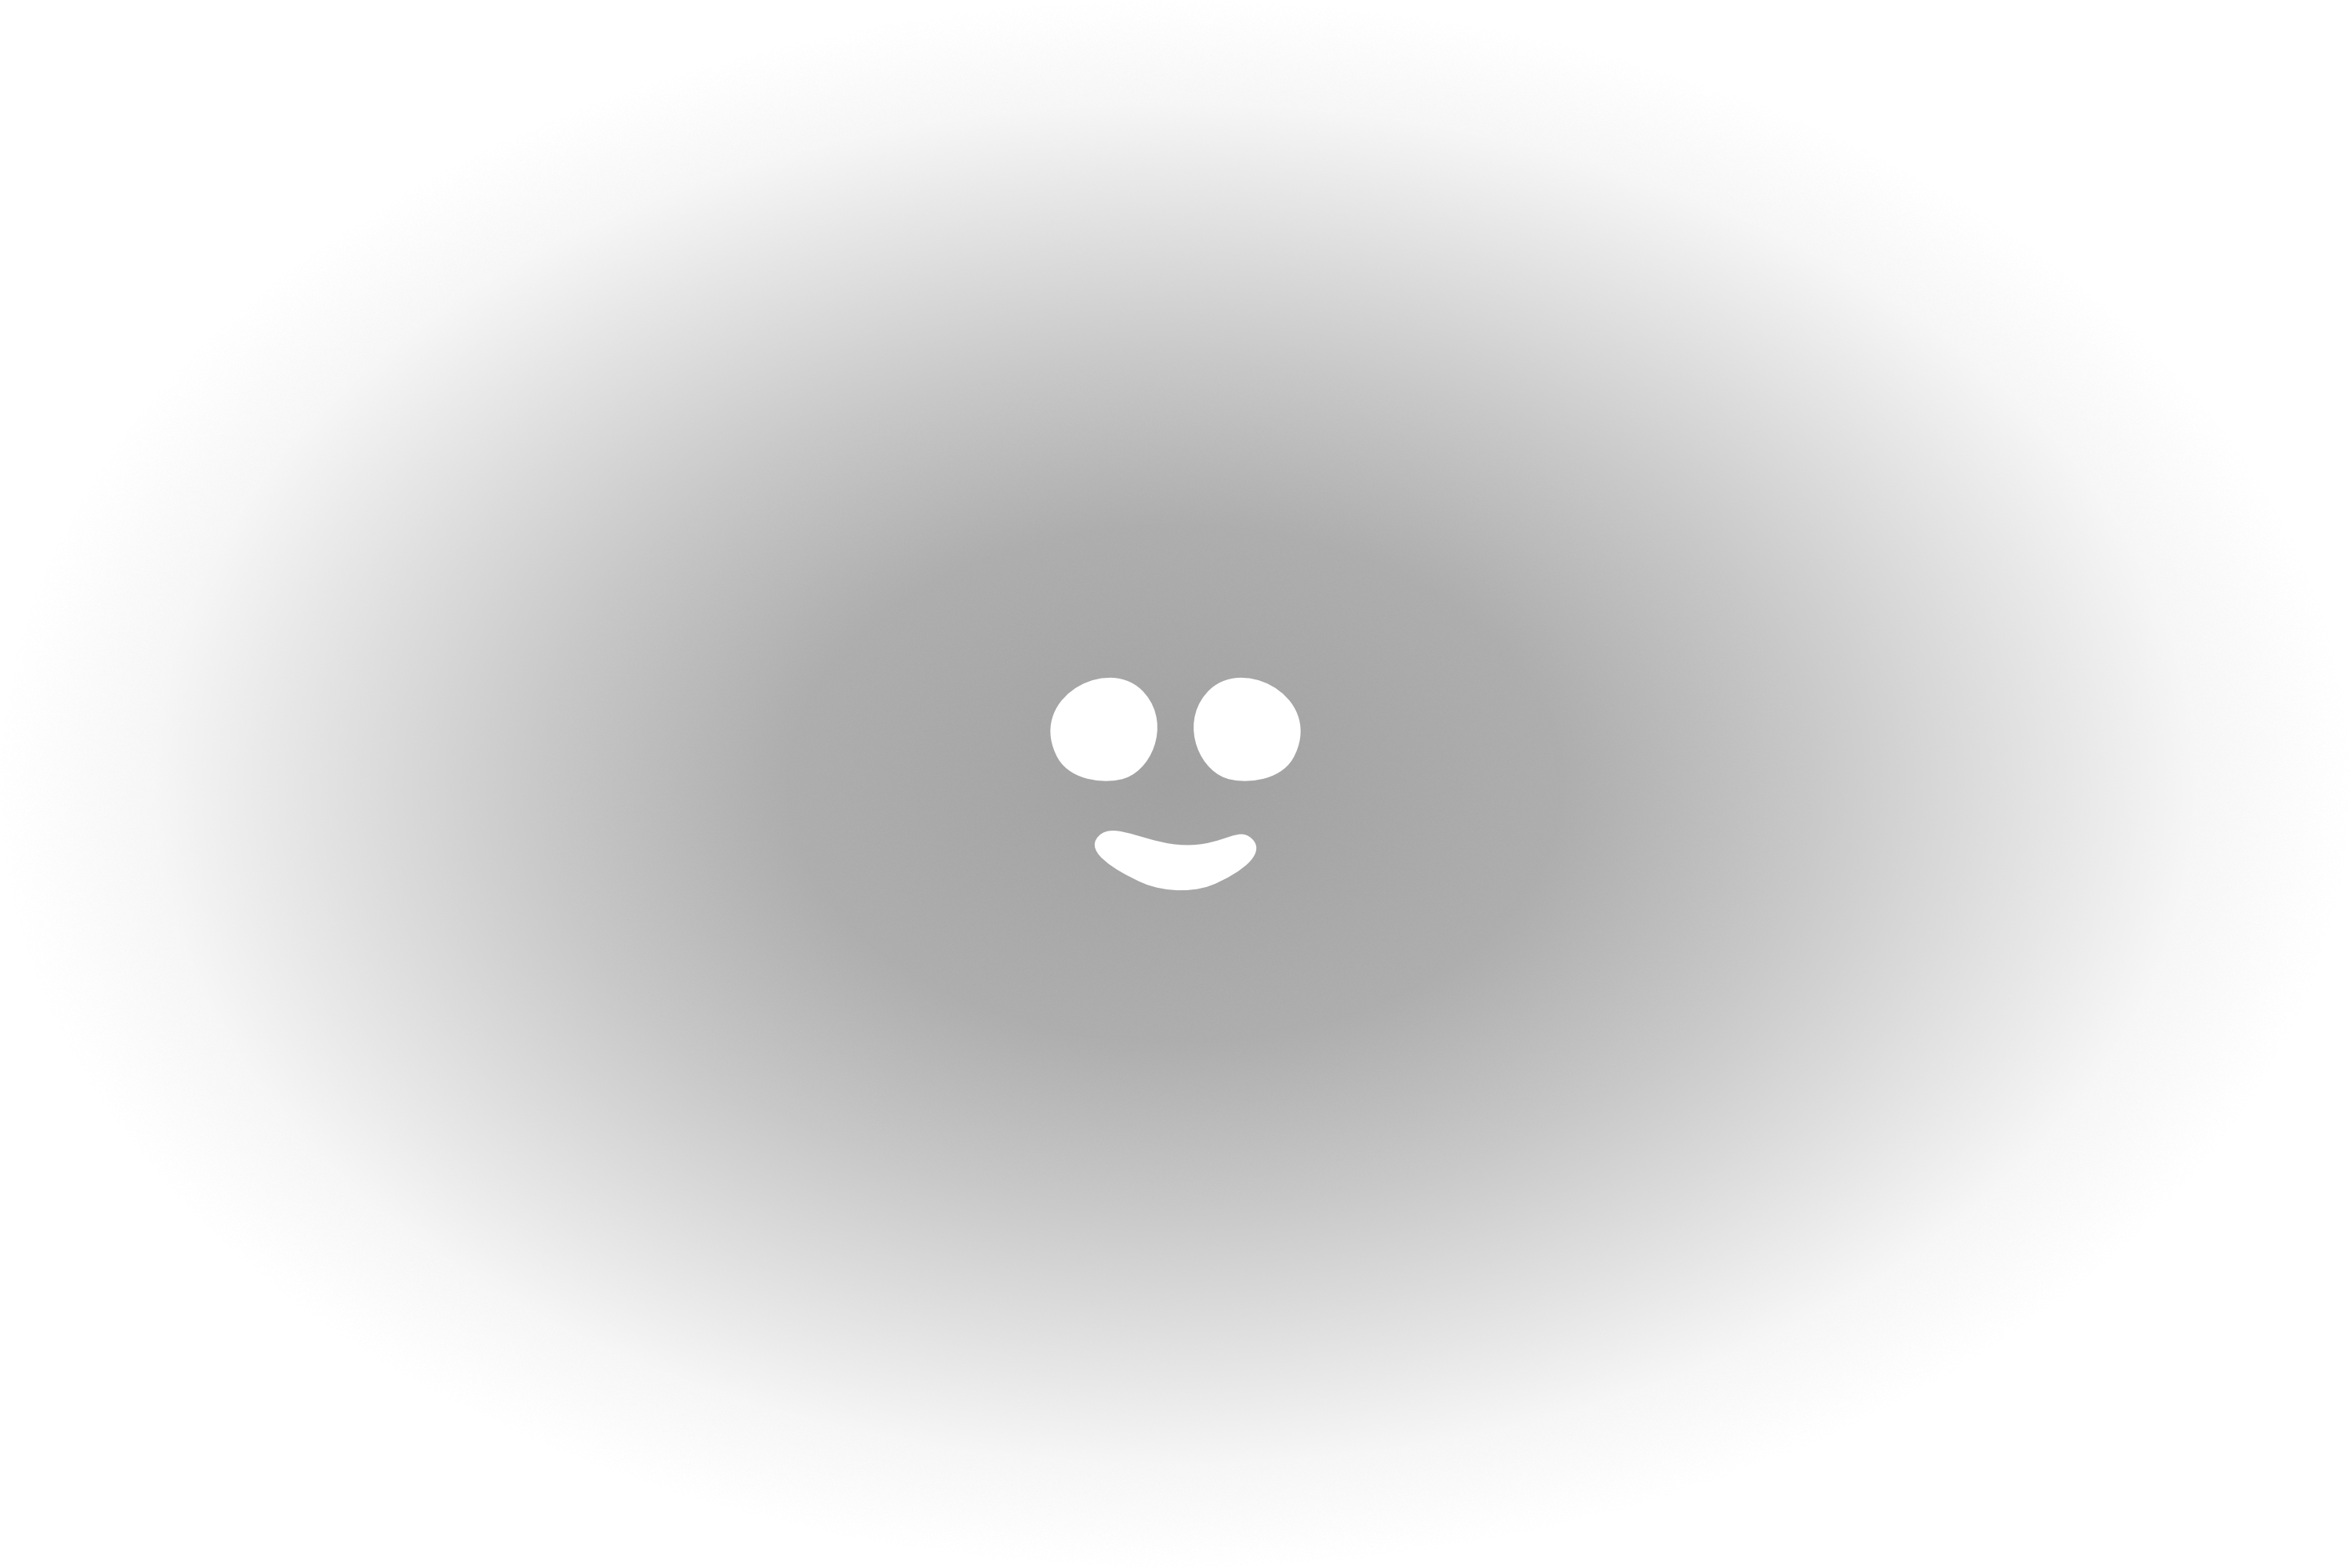
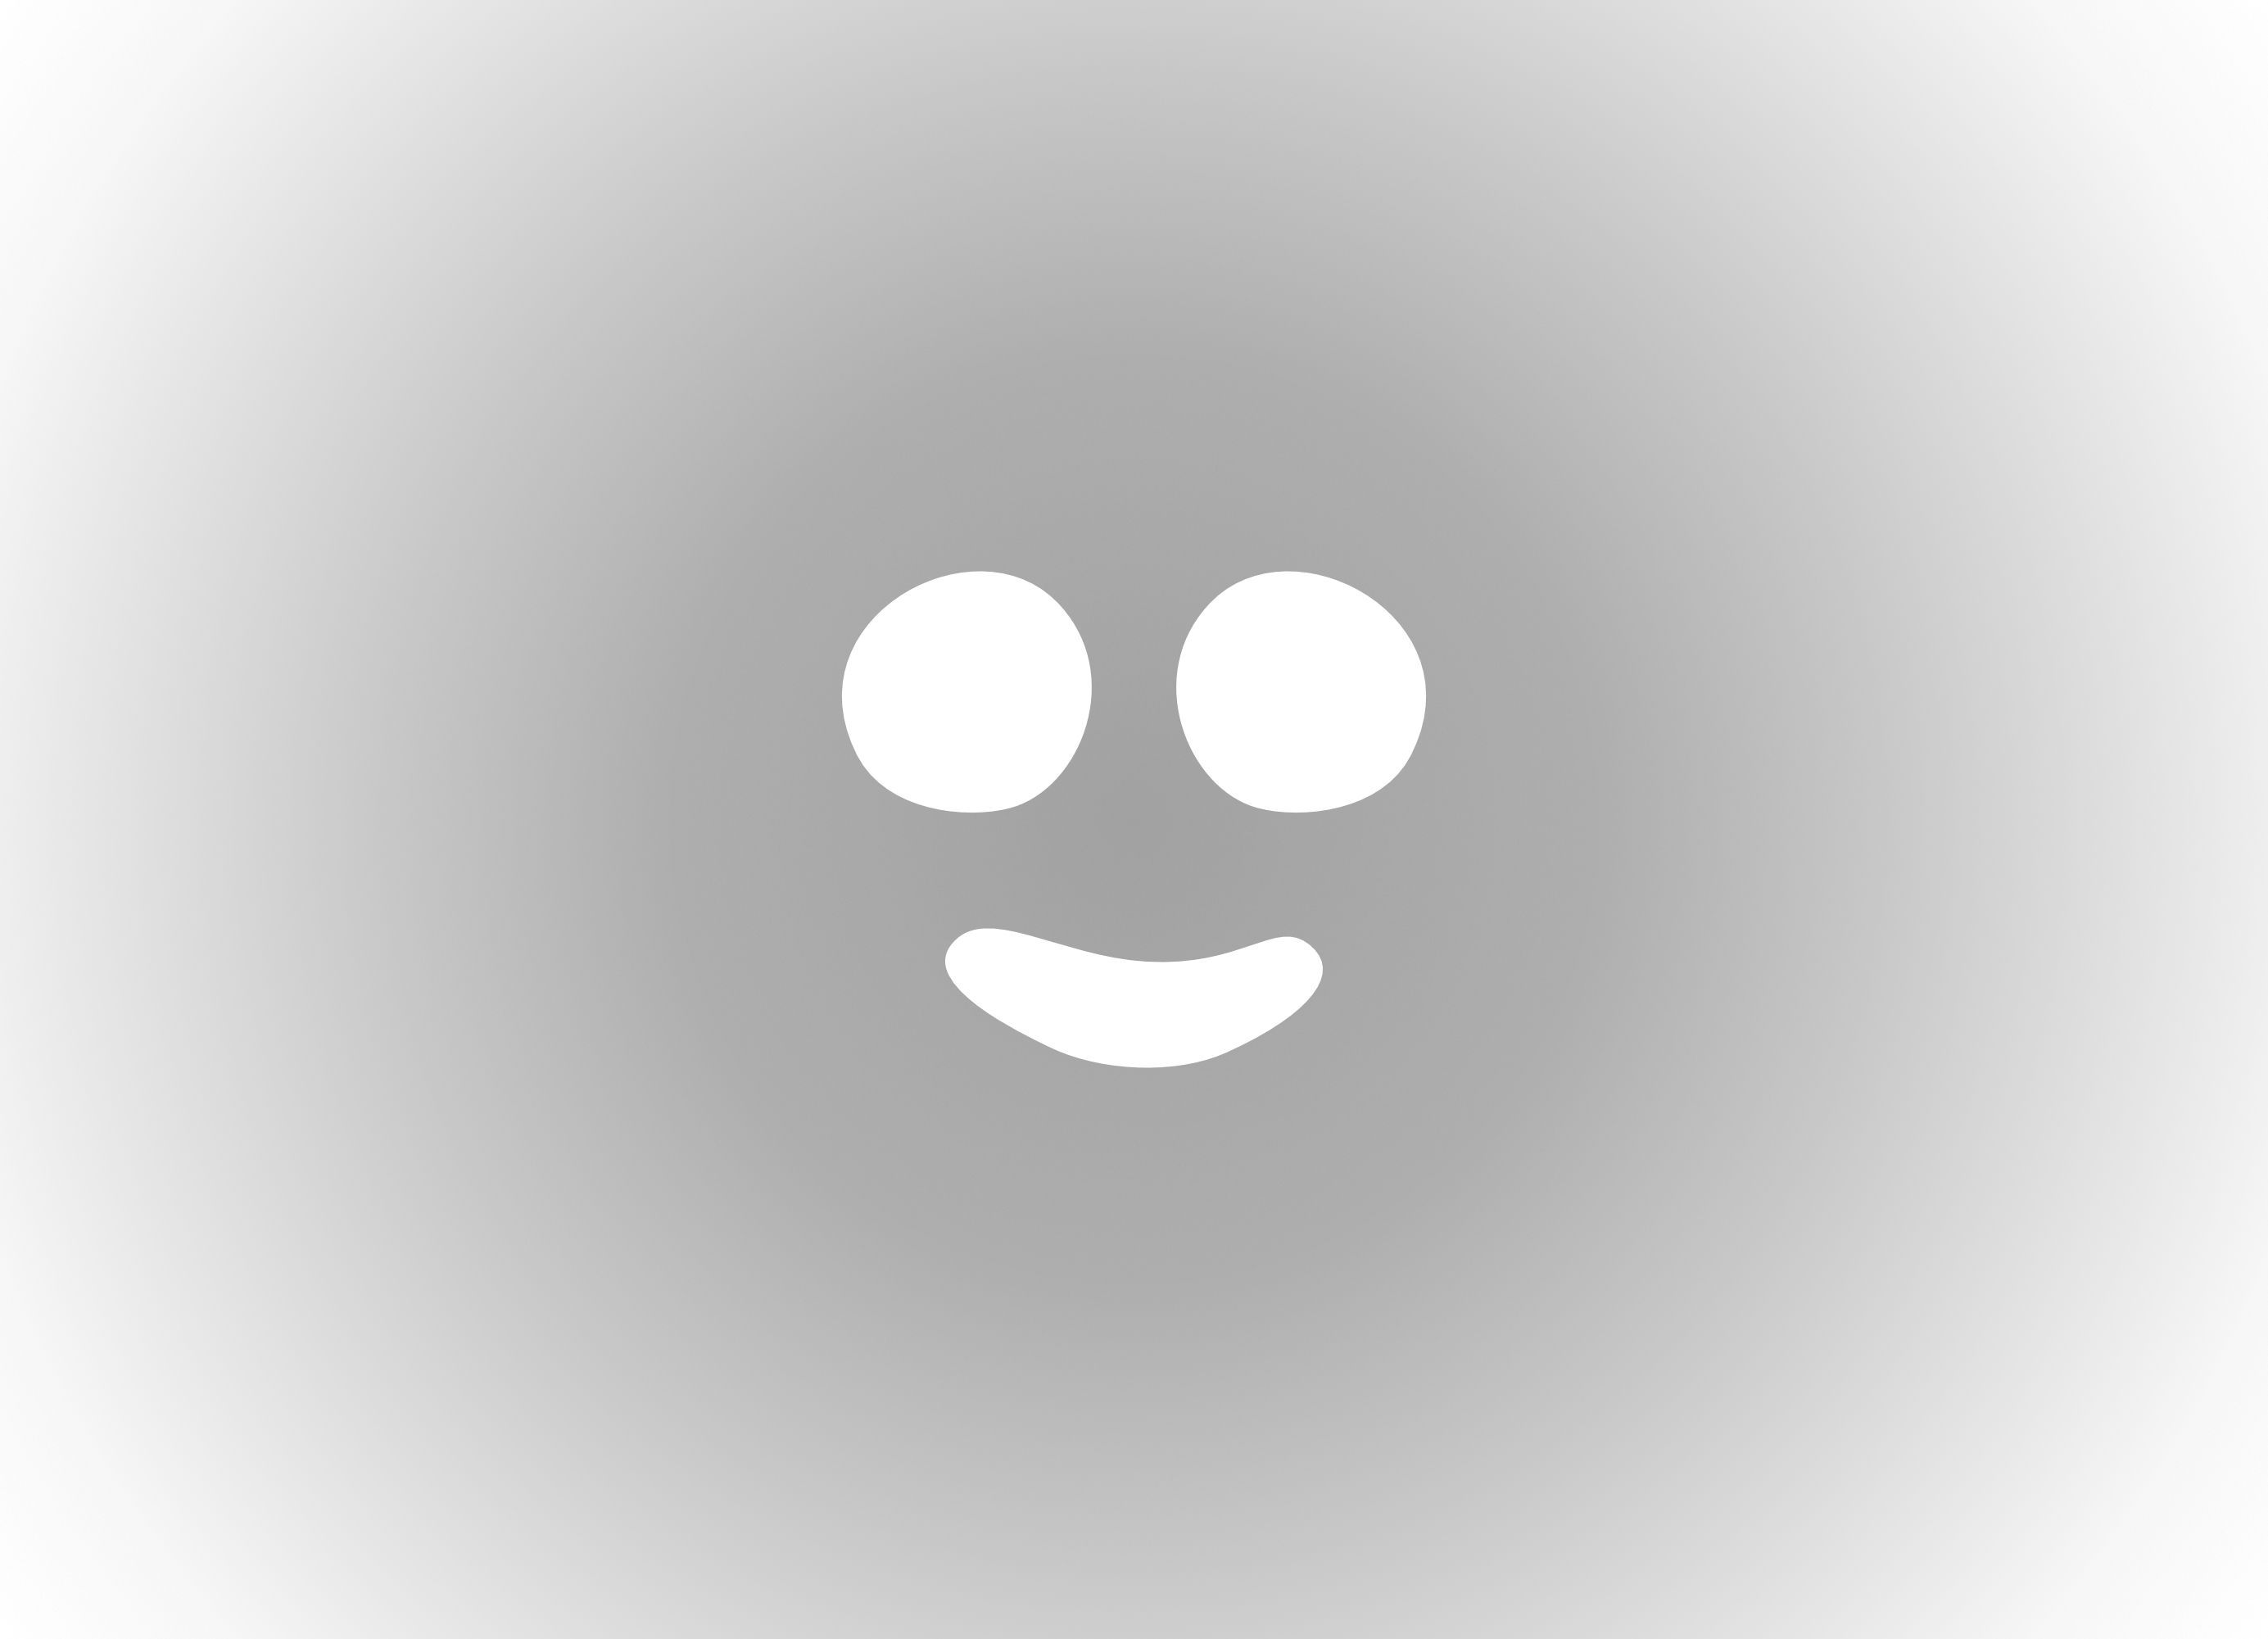
amorphous blob test

diff --git a/src/data/projekte.js b/src/data/projekte.js
@@ -23,12 +23,12 @@ export const projekte = [
     {
         id: 'bachelor',
         cover: bachelorFiles['../projects/bachelor/cover.jpg']?.default,
-        name: 'bachelor',
-        description: 'bachelorprojekt zu desktop-companions',
+        name: 'amorphous blob',
+        description: 'eine Desktop-Präsenz als Selbstreflexion',
         context: {
             lines: [
                 '2026 @ HSLU, Rotkreuz',
-                'Bachelorarbeit & Praxisprojekt'
+                'Bachelorarbeit'
             ],
             url: 'https://www.hslu.ch/it',
             icon: 'graduation-cap',
@@ -44,98 +44,38 @@ export const projekte = [
         sections: [
             {
                 type: 'quoted',
-                text: `Das Bachelorprojekt verbindet eine abgeschlossene schriftliche Thesis mit einem praktischen Bachelorprojekt. Die Thesis legt die theoretische Grundlage zu virtuellen Companions, Projektion und ruhiger Interaktion, während das Projekt diese Erkenntnisse in einen ruhigen Desktop-Prototyp für den digitalen Alltag übersetzt.`
+                text: `Digitale Technologien begleiten unseren Alltag oft als Werkzeuge zur Produktivität, Optimierung oder Unterhaltung. Mit Amorphous Blob untersuche ich, wie eine digitale Präsenz stattdessen emotionale Reflexion und eine persönlichere Beziehung unterstützen kann. Mich interessiert, wie Projektion und Interaktion dazu führen können, dass Menschen durch den Blob einen neuen Zugang zu ihren eigenen Gedanken und Gefühlen entwickeln. Das Medium einer interaktiven digitalen Desktop-Präsenz ermöglicht dabei eine langfristige, persönliche Beziehung statt einer einmaligen Erfahrung.`
             },
             {
-                type: 'heading',
-                text: 'Abgeschlossene schriftliche Thesis'
+                type: 'buttons',
+                buttons: [
+                    {
+                        text: 'Windows App herunterladen',
+                        action: bachelorFiles['../projects/bachelor/Amorphous Blob Setup.exe'].default,
+                        icon: 'fa-brands fa-windows',
+                        color: 'secondary'
+                    },
+                    {
+                        text: 'MacOS App herunterladen',
+                        url: bachelorFiles['../projects/bachelor/Amorphous Blob.dmg'].default,
+                        icon: 'fa-brands fa-apple',
+                        color: 'secondary'
+                    }
+                ]
             },
-            {
-                type: 'iconed',
-                text: 'Forschungsfokus',
-                icon: 'book'
-            },
-            {
-                type: 'bullet',
-                text: 'Warum Companions sozial wirken und nicht nur funktional'
-            },
-            {
-                type: 'bullet',
-                text: 'Kompakter Analyse-Rahmen aus CASA, Mind Perception, parasozialer Interaktion, Ambiguität und Calm Technology'
-            },
-            {
-                type: 'iconed',
-                text: 'Zentrale Erkenntnis',
-                icon: 'lightbulb'
-            },
-            {
-                type: 'bullet',
-                text: 'Soziale Gegenüberhaftigkeit entsteht vor allem durch periphere Präsenz, Zweckfreiheit und Offenheit'
-            },
-            {
-                type: 'iconed',
-                text: 'Beitrag',
-                icon: 'pen-nib'
-            },
-            {
-                type: 'bullet',
-                text: 'Theoretische Grundlage für weitere Forschung und gestalterische Experimente'
-            },
-            {
-                type: 'heading',
-                text: 'Projektplan'
-            },
-            {
-                type: 'subheading',
-                text: 'Konzept',
-            },
-            {
-                type: 'bullet',
-                text: 'Blob gestaltet durch kurze Selbstreflexion im Onboarding'
-            },
-            {
-                type: 'bullet',
-                text: 'Symbolisches Gegenüber, dauerhaft präsent aber nicht aufdringlich'
-            },
-            {
-                type: 'subheading',
-                text: 'Interaktion im Alltag',
-            },
-            {
-                type: 'bullet',
-                text: 'Dezente Präsenz am unteren Bildschirmrand mit Reaktionen auf Anwesenheit und Interaktion'
-            },
-            {
-                type: 'bullet',
-                text: 'Mikrointeraktionen: antippen, streicheln, aufheben, loslassen'
-            },
-            {
-                type: 'bullet',
-                text: 'Reflexionsmomente nur auf Abruf, zum Beispiel als Mini-Journal'
-            },
-            {
-                type: 'subheading',
-                text: 'Implementierung',
-            },
-            {
-                type: 'bullet',
-                text: 'Lokaler Offline-Desktop-Prototyp mit Electron und Vue, basierend auf der abgeschlossenen Thesis'
-            },
-            {
-                type: 'bullet',
-                text: 'Iterativer Designprozess mit regelmässigen User-Tests und Feedback-Sessions'
-            },
-            {
-                type: 'heading',
-                text: 'Pitch-Präsentation'
-            },
-            {
-                type: 'presentation',
-                src: bachelorFiles['../projects/bachelor/PITCH.pdf'].default,
-            }
         ],
         links: [],
         downloads: [
+            {
+                text: 'Windows App',
+                action: bachelorFiles['../projects/bachelor/Amorphous Blob Setup.exe'].default,
+                icon: 'fa-brands fa-windows'
+            },
+            {
+                text: 'MacOS App',
+                url: bachelorFiles['../projects/bachelor/Amorphous Blob.dmg'].default,
+                icon: 'fa-brands fa-apple'
+            },
             {
                 text: 'Pitch-Präsentation.ppsx',
                 url: bachelorFiles['../projects/bachelor/PITCH.ppsx'].default,

diff --git a/src/data/projects.js b/src/data/projects.js
@@ -23,8 +23,8 @@ export const projects = [
     {
         id: 'bachelor',
         cover: bachelorFiles['../projects/bachelor/cover.jpg']?.default,
-        name: 'bachelor',
-        description: 'bachelor project on desktop companions',
+        name: 'amorphous blob',
+        description: 'a desktop presence as self-reflection',
         context: {
             lines: [
                 '2026 @ HSLU, Rotkreuz',
@@ -44,98 +44,38 @@ export const projects = [
         sections: [
             {
                 type: 'quoted',
-                text: `The bachelor project combines a completed written thesis with a practical bachelor project. The thesis builds the theoretical foundation on virtual companions, projection, and calm interaction, while the project translates these insights into a calm desktop prototype that can be experienced in everyday digital life.`
+                text: `Digital technologies often accompany our daily lives as tools for productivity, optimization, or entertainment. With Amorphous Blob, I explore how a digital presence can instead support emotional reflection and foster a more personal relationship. I am interested in how projection and interaction can enable people to gain new access to their own thoughts and feelings through the Blob. The medium of an interactive digital desktop presence allows for a long-term, personal relationship rather than a one-time experience.`
             },
             {
-                type: 'heading',
-                text: 'Completed Written Thesis'
+                type: 'buttons',
+                buttons: [
+                    {
+                        text: 'Download Windows App',
+                        action: bachelorFiles['../projects/bachelor/Amorphous Blob Setup.exe'].default,
+                        icon: 'fa-brands fa-windows',
+                        color: 'secondary'
+                    },
+                    {
+                        text: 'Download MacOS App',
+                        url: bachelorFiles['../projects/bachelor/Amorphous Blob.dmg'].default,
+                        icon: 'fa-brands fa-apple',
+                        color: 'secondary'
+                    }
+                ]
             },
-            {
-                type: 'iconed',
-                text: 'Research Focus',
-                icon: 'book'
-            },
-            {
-                type: 'bullet',
-                text: 'Why companions feel social beyond pure function'
-            },
-            {
-                type: 'bullet',
-                text: 'Compact framework based on CASA, mind perception, parasociality, ambiguity, and calm interaction'
-            },
-            {
-                type: 'iconed',
-                text: 'Key Finding',
-                icon: 'lightbulb'
-            },
-            {
-                type: 'bullet',
-                text: 'Perceived sociality comes mainly from peripheral presence, non-instrumentality, and openness'
-            },
-            {
-                type: 'iconed',
-                text: 'Why This Matters',
-                icon: 'pen-nib'
-            },
-            {
-                type: 'bullet',
-                text: 'Theoretical base for future research and design experiments'
-            },
-            {
-                type: 'heading',
-                text: 'Practical Project Plan'
-            },
-            {
-                type: 'subheading',
-                text: 'Concept',
-            },
-            {
-                type: 'bullet',
-                text: 'Blob shaped by a short onboarding reflection'
-            },
-            {
-                type: 'bullet',
-                text: 'Symbolic counterpart for self-reference without intrusiveness'
-            },
-            {
-                type: 'subheading',
-                text: 'Everyday Interaction',
-            },
-            {
-                type: 'bullet',
-                text: 'Subtle bottom-screen presence reacting to time and interaction'
-            },
-            {
-                type: 'bullet',
-                text: 'Micro-interactions: tap, pet, pick up, release'
-            },
-            {
-                type: 'bullet',
-                text: 'Reflection only on demand, for example via a mini journal'
-            },
-            {
-                type: 'subheading',
-                text: 'Implementation',
-            },
-            {
-                type: 'bullet',
-                text: 'Local offline desktop prototype with Electron and Vue, grounded in the completed thesis'
-            },
-            {
-                type: 'bullet',
-                text: 'Iterative design process with regular user testing and feedback sessions'
-            },
-            {
-                type: 'heading',
-                text: 'Pitch Presentation'
-            },
-            {
-                type: 'presentation',
-                src: bachelorFiles['../projects/bachelor/PITCH.pdf'].default,
-            }
         ],
         links: [],
         downloads: [
+            {
+                text: 'Windows App',
+                action: bachelorFiles['../projects/bachelor/Amorphous Blob Setup.exe'].default,
+                icon: 'fa-brands fa-windows'
+            },
+            {
+                text: 'MacOS App',
+                url: bachelorFiles['../projects/bachelor/Amorphous Blob.dmg'].default,
+                icon: 'fa-brands fa-apple'
+            },
             {
                 text: 'Pitch_Presentation.ppsx',
                 url: bachelorFiles['../projects/bachelor/PITCH.ppsx'].default,

diff --git a/vite.config.js b/vite.config.js
@@ -16,7 +16,7 @@ export default defineConfig({
       '@': fileURLToPath(new URL('./src', import.meta.url))
     },
   },
-  assetsInclude: ['**/*.zip', '**/*.ppsx', '**/*.apk'],
+  assetsInclude: ['**/*.zip', '**/*.ppsx', '**/*.apk', '**/*.exe', '**/*.dmg'],
   build: {
     rollupOptions: {
       output: {

diff --git a/DEPLOYMENT.md b/DEPLOYMENT.md
@@ -13,12 +13,21 @@ This project uses GitHub Actions for automation, with separate workflows for sit
 
 ---
 
+## Git LFS for Large Assets
+
+- Large files are tracked with Git LFS through [`.gitattributes`](./.gitattributes).
+- After installing Git LFS once on your machine, run `git lfs install` in this repository.
+- To convert the existing large files into an LFS object, re-add them once with `git add` and then commit as usual.
+- If you clone this repository on another device, install Git LFS there before pulling.
+
+---
+
 ## Spotify Data Update
 
 - Workflow: [`.github/workflows/spotify-data-update.yml`](./.github/workflows/spotify-data-update.yml)
 - Fetches latest Spotify data and updates `public/spotify.json`.
-- **Triggered by:**  
-  - Manual dispatch on GitHub  
+- **Triggered by:**
+  - Manual dispatch on GitHub
   - **Cronitor**: Periodically triggers a `repository_dispatch` event (`update_spotify`) to automate updates.
 - Requires Spotify API credentials set as repository secrets.
 